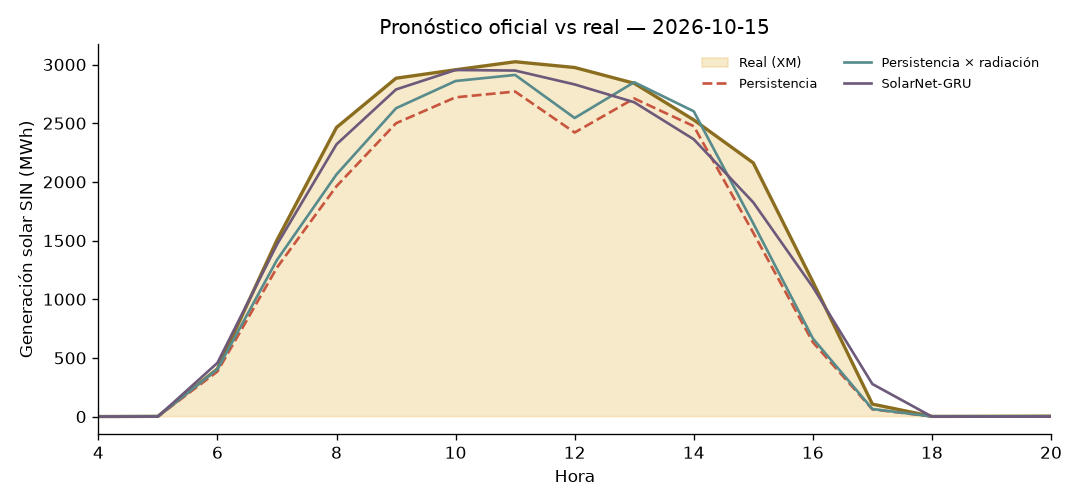
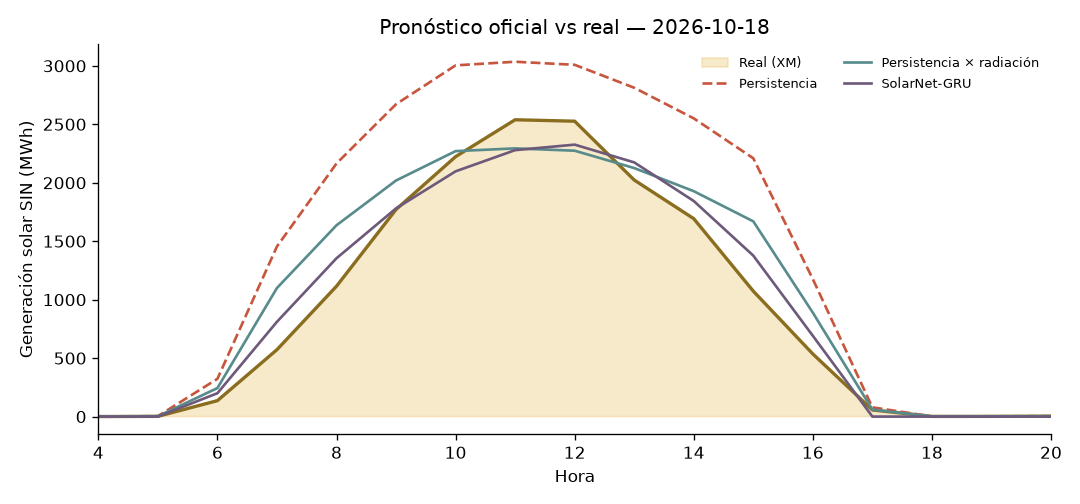
☀ Pronóstico y leaderboard 2026-10-22

diff --git a/LEADERBOARD.md b/LEADERBOARD.md
@@ -1,14 +1,14 @@
 # ☀ Liga de Pronóstico Solar Colombia — Leaderboard
 
-_Actualizado: 2026-10-20 11:37 (hora Colombia) · Métrica: MAE en horas de sol (06–18 h) · Skill = 1 − MAE/MAE_persistencia (positivo = le ganas a la persistencia)_
+_Actualizado: 2026-10-22 11:54 (hora Colombia) · Métrica: MAE en horas de sol (06–18 h) · Skill = 1 − MAE/MAE_persistencia (positivo = le ganas a la persistencia)_
 
 ## 🏆 Liga oficial (predicciones hechas ANTES de conocer el dato real)
 
 | # | Modelo | Autor | Días | MAE (MWh) | nMAE | Skill vs persistencia |
 |---|---|---|---|---|---|---|
-| 🥇 | SolarNet-GRU | profe | 3 | 256.6 | 19.1% | +43.6% |
-| 🥈 | Persistencia × radiación | profe | 3 | 361.5 | 27.0% | +16.7% |
-| 🥉 | Persistencia | profe | 3 | 458.9 | 34.2% | — |
+| 🥇 | SolarNet-GRU | profe | 4 | 230.1 | 17.4% | +51.8% |
+| 🥈 | Persistencia × radiación | profe | 4 | 333.4 | 25.3% | +27.7% |
+| 🥉 | Persistencia | profe | 4 | 502.4 | 38.1% | — |
 
 ![último día](resultados/ultimo_dia.png)
 
